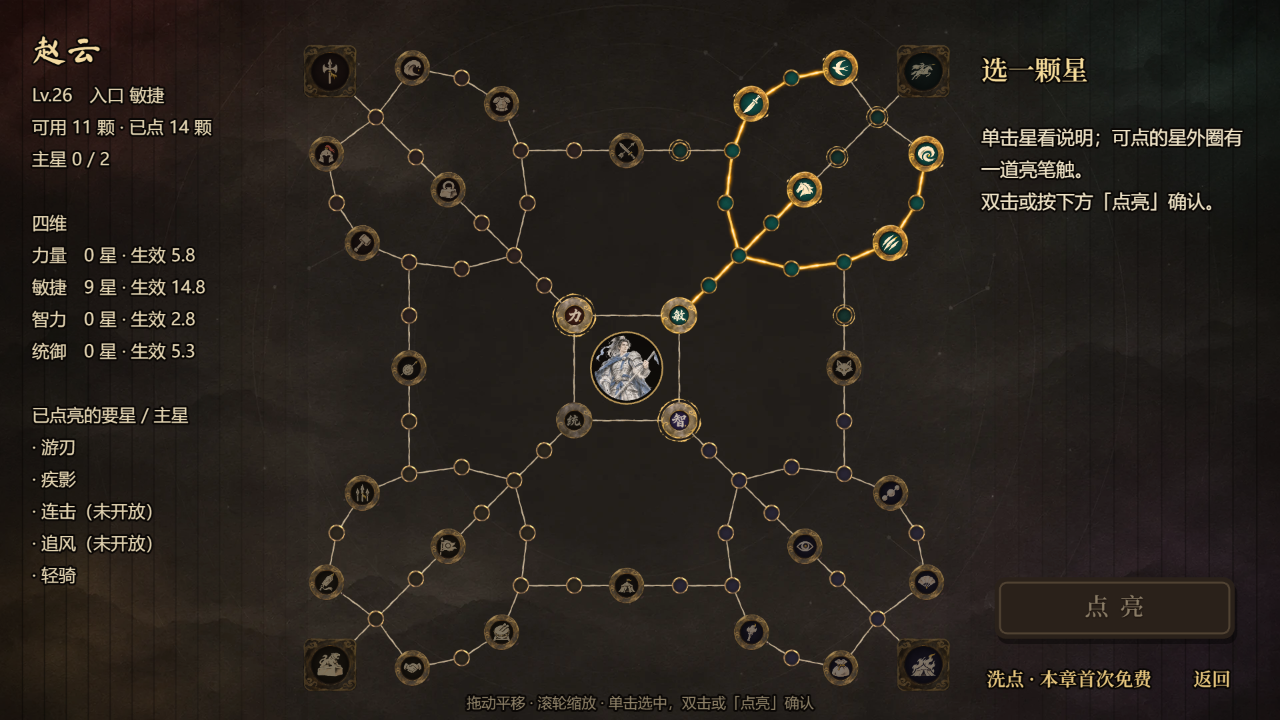
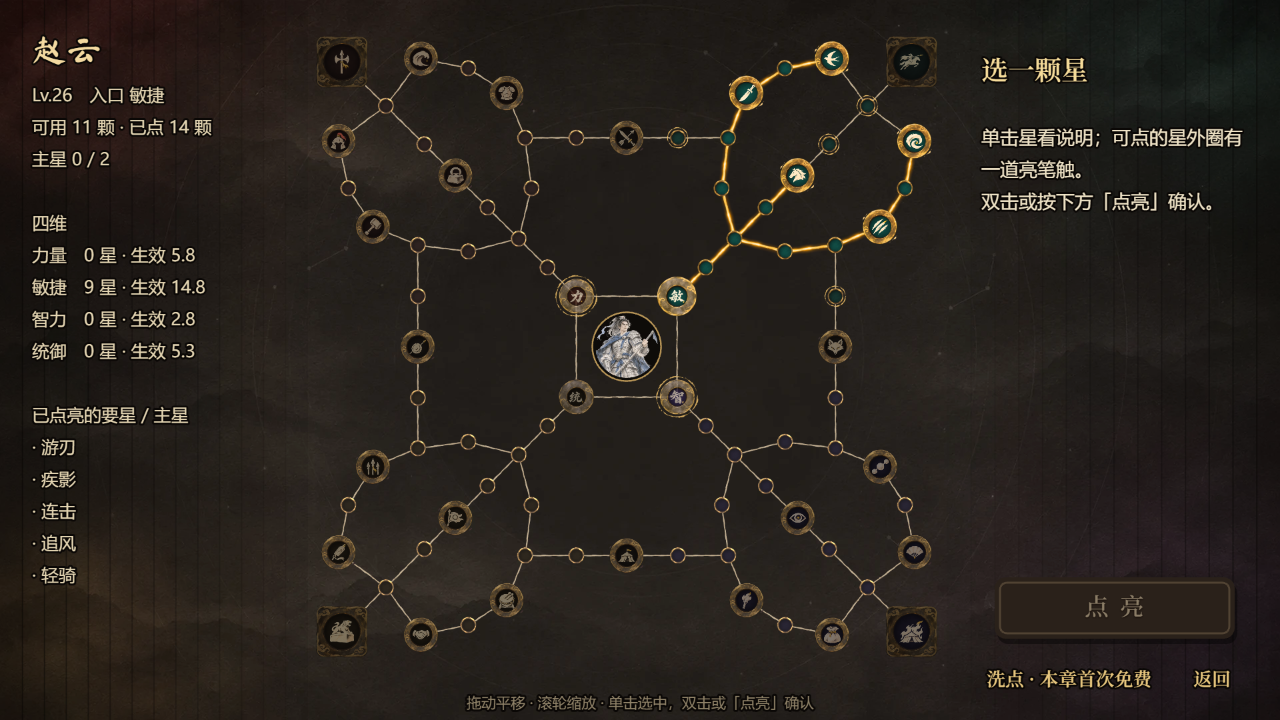
星图验收小修（统筹 49552686 验收四条）：①左右文字栏与底部操作提示范围内的星 / 线 / 中心头像按屏幕位置淡出到 0 并关掉点击，放大拖动后文字栏永远干净；默认缩放改为整张图放进可见区并让出淡出带（默认视图里没有半透明的星）。②悬停在当前选中的星上不弹悬停框；悬停框会伸进右栏时改放星的左侧。③已点亮的入口放大 12% 全亮，可点的入口压暗到 80%，两者一眼可分。④确认开关打开时没有可用的星也能按 C 打开星图（GameScene.canAttributes 已含 starMapOn）。另修：战斗暂停时 scene.time 不走，拖动结束后「拖动中」标记清不掉、悬停框不再出现——

Changed region(s): [[0.2188, 0.0306, 0.75, 0.9472], [0.0625, 0.7028, 0.125, 0.7639]]

diff --git a/src/ui/StarMapUI.ts b/src/ui/StarMapUI.ts
@@ -55,6 +55,8 @@ const BOUNDS = { x0: Math.min(...XS) - 40, x1: Math.max(...XS) + 40, y0: Math.mi
 /** 中心头像位：四个入口围出的方框中点。 */
 const CENTER = (() => { const g = STAR_NODES.filter(n => n.kind === 'gate'); return { x: g.reduce((s, n) => s + n.x, 0) / g.length, y: g.reduce((s, n) => s + n.y, 0) / g.length }; })();
 const ZOOM_MIN = .8, ZOOM_MAX = 1.6;
+/** 可见区边上的淡出带宽度（逻辑像素）。 */
+const FADE_E = 16;
 
 const setOf = (n: StarNode): string => (n.region === 'bridge' ? 'neutral' : n.region);
 const nodeKey = (n: StarNode, st: NodeState): string => `${P}${setOf(n)}_${n.kind}_${st}`;
@@ -74,7 +76,7 @@ function queueArt(scene: Phaser.Scene, hero: string): number {
 export class StarMapUI {
   readonly root: Phaser.GameObjects.Container;
   private map!: Phaser.GameObjects.Container;
-  private readonly nodes = new Map<string, { n: StarNode; base: Phaser.GameObjects.Image; icon?: Phaser.GameObjects.Image }>();
+  private readonly nodes = new Map<string, { n: StarNode; base: Phaser.GameObjects.Image; icon?: Phaser.GameObjects.Image; hit: Phaser.GameObjects.Zone; baseAlpha: number; iconAlpha: number; fade: number }>();
   private readonly lines: Array<{ a: string; b: string; ink: Phaser.GameObjects.TileSprite; gold: Phaser.GameObjects.TileSprite }> = [];
   private ring!: Phaser.GameObjects.Graphics;
   private left!: Phaser.GameObjects.Text;
@@ -121,9 +123,12 @@ export class StarMapUI {
     const bg = s.add.image(W / 2, H / 2, P + 'bg').setScrollFactor(0); bg.setScale(Math.max(W / bg.width, H / bg.height)); this.root.add(bg);
     // 图：容器里用设计稿坐标；默认缩放 = 正好一屏放下（左右各留出文字栏）
     this.map = s.add.container(0, 0).setScrollFactor(0).setName('star-map-layer'); this.root.add(this.map);
-    const sideL = IS_DESKTOP ? 210 : 0, sideR = IS_DESKTOP ? 230 : 0, availW = W - sideL - sideR, availH = H - 40;
+    const sideL = IS_DESKTOP ? 210 : 0, sideR = IS_DESKTOP ? 230 : 0;
+    this.clip = { l: sideL, r: W - sideR, t: 4, b: H - 24 };
+    // 默认缩放：整张图放进可见区并让出淡出带，默认视图里没有一颗星是半透明的
+    const availW = this.clip.r - this.clip.l - 2 * FADE_E, availH = this.clip.b - this.clip.t - 2 * FADE_E;
     this.fit = Math.min(availW / (BOUNDS.x1 - BOUNDS.x0), availH / (BOUNDS.y1 - BOUNDS.y0));
-    this.home = { x: sideL + availW / 2, y: H / 2 + 6 };
+    this.home = { x: (this.clip.l + this.clip.r) / 2, y: (this.clip.t + this.clip.b) / 2 };
     // 连线（先画，在节点下面）
     for (const [a, b] of STAR_EDGES) {
       const A = STAR_BY_ID.get(a)!, B = STAR_BY_ID.get(b)!, len = Math.hypot(B.x - A.x, B.y - A.y), ang = Math.atan2(B.y - A.y, B.x - A.x);
@@ -144,7 +149,7 @@ export class StarMapUI {
       hit.on('pointerout', () => { if (this.hover === n.id) { this.hover = null; this.renderTip(); } });
       hit.on('pointerup', (p: Phaser.Input.Pointer) => { if (this.drag?.moved) return; this.click(n.id, p); });
       this.map.add(hit);
-      this.nodes.set(n.id, { n, base, icon });
+      this.nodes.set(n.id, { n, base, icon, hit, baseAlpha: 1, iconAlpha: 1, fade: 1 });
     }
     this.ring = s.add.graphics().setScrollFactor(0); this.map.add(this.ring);
     this.applyView();
@@ -153,6 +158,25 @@ export class StarMapUI {
     this.render();
   }
   private home = { x: 0, y: 0 };
+  /** 星图可见区（左右文字栏与底部操作提示之外）；区外的星、线、头像淡出到 0 并关掉点击（2026-11-21 验收：放大 / 拖动后文字栏压在星上）。 */
+  private clip = { l: 0, r: 0, t: 0, b: 0 };
+  private portraitParts: Array<{ setAlpha: (a: number) => unknown }> = [];
+  private fadeAt(x: number, y: number): number {
+    const s = this.fit * this.zoom, sx = this.map.x + x * s, sy = this.map.y + y * s, c = this.clip, E = FADE_E;
+    return Phaser.Math.Clamp(Math.min((sx - c.l) / E, (c.r - sx) / E, (sy - c.t) / E, (c.b - sy) / E), 0, 1);
+  }
+  /** 按屏幕位置给每颗星 / 每条线 / 中心头像算淡出（平移、缩放、刷新后调用）。 */
+  private applyFade(): void {
+    if (!this.built) return;
+    for (const v of this.nodes.values()) {
+      const a = this.fadeAt(v.n.x, v.n.y); v.fade = a;
+      v.base.setAlpha(a * v.baseAlpha); v.icon?.setAlpha(a * v.iconAlpha);
+      if (v.hit.input) v.hit.input.enabled = a > .5;
+    }
+    for (const l of this.lines) { const A = STAR_BY_ID.get(l.a)!, B = STAR_BY_ID.get(l.b)!, a = Math.min(this.fadeAt(A.x, A.y), this.fadeAt(B.x, B.y)); l.ink.setAlpha(.72 * a); l.gold.setAlpha(a); }
+    const pa = this.fadeAt(CENTER.x, CENTER.y); for (const o of this.portraitParts) o.setAlpha(pa);
+    this.ring.setAlpha(this.selected ? this.nodes.get(this.selected)?.fade ?? 1 : 1);
+  }
   /** 底座图的显示尺寸系数（图是 2×，显示按设计稿 1×；入口 / 要星图 128 宽包含外圈笔触，按设计稿 44 直径换算）。 */
   private baseScale(kind: StarNode['kind']): number { const img2x = { gate: 128, small: 58, notable: 128, keystone: 186 }[kind], disp2x = DISP[kind] * 2; return img2x / disp2x; }
 
@@ -165,10 +189,10 @@ export class StarMapUI {
       const w = src.width * .7, sx = (src.width - w) / 2, sy = src.height * .06; g.drawImage(src, sx, sy, w, w, 0, 0, 160, 160);
       s.textures.addCanvas(faceKey, c);
     }
-    const ring = s.add.graphics().setScrollFactor(0); ring.fillStyle(0x0b0806, .85).fillCircle(CENTER.x, CENTER.y, R + 3).lineStyle(2, 0xc9a35e, .9).strokeCircle(CENTER.x, CENTER.y, R + 3); this.map.add(ring);
+    const ring = s.add.graphics().setScrollFactor(0); this.portraitParts.push(ring); ring.fillStyle(0x0b0806, .85).fillCircle(CENTER.x, CENTER.y, R + 3).lineStyle(2, 0xc9a35e, .9).strokeCircle(CENTER.x, CENTER.y, R + 3); this.map.add(ring);
     const c = CHARACTERS.find(x => x.id === st.hero);
-    if (s.textures.exists(faceKey)) this.map.add(s.add.image(CENTER.x, CENTER.y, faceKey).setDisplaySize(R * 2, R * 2).setScrollFactor(0).setName('star-map-face'));
-    else if (c && s.textures.exists(c.portrait)) { const im = s.add.image(CENTER.x, CENTER.y, c.portrait).setScrollFactor(0).setName('star-map-face'); im.setScale(Math.min(R * 1.6 / im.width, R * 1.6 / im.height)); this.map.add(im); }
+    if (s.textures.exists(faceKey)) { const im = s.add.image(CENTER.x, CENTER.y, faceKey).setDisplaySize(R * 2, R * 2).setScrollFactor(0).setName('star-map-face'); this.map.add(im); this.portraitParts.push(im); }
+    else if (c && s.textures.exists(c.portrait)) { const im = s.add.image(CENTER.x, CENTER.y, c.portrait).setScrollFactor(0).setName('star-map-face'); im.setScale(Math.min(R * 1.6 / im.width, R * 1.6 / im.height)); this.map.add(im); this.portraitParts.push(im); }
   }
 
   private buildText(): void {
@@ -208,15 +232,15 @@ export class StarMapUI {
     const p = this.scene.input.activePointer, before = this.zoom, next = Phaser.Math.Clamp(this.zoom * (dy > 0 ? 1 / 1.12 : 1.12), ZOOM_MIN, ZOOM_MAX);
     if (next === before) return;
     // 以鼠标为中心缩放
-    const k = next / before; this.map.x = p.x - (p.x - this.map.x) * k; this.map.y = p.y - (p.y - this.map.y) * k; this.zoom = next; this.map.setScale(this.fit * this.zoom); this.clampPan(); this.renderTip();
+    const k = next / before; this.map.x = p.x - (p.x - this.map.x) * k; this.map.y = p.y - (p.y - this.map.y) * k; this.zoom = next; this.map.setScale(this.fit * this.zoom); this.clampPan(); this.applyFade(); this.renderTip();
   };
   private readonly onDown = (p: Phaser.Input.Pointer): void => { if (!this.visible()) return; this.drag = { x: this.map.x, y: this.map.y, mx: p.x, my: p.y, moved: false }; };
   private readonly onMove = (p: Phaser.Input.Pointer): void => {
     const d = this.drag; if (!d || !p.isDown || !this.visible()) return;
     if (!d.moved && Math.hypot(p.x - d.mx, p.y - d.my) < 6) return;
-    d.moved = true; this.map.setPosition(d.x + p.x - d.mx, d.y + p.y - d.my); this.clampPan(); this.renderTip();
+    d.moved = true; this.map.setPosition(d.x + p.x - d.mx, d.y + p.y - d.my); this.clampPan(); this.applyFade(); this.renderTip();
   };
-  private readonly onUp = (): void => { const d = this.drag; if (d?.moved) this.scene.time.delayedCall(0, () => { if (this.drag === d) this.drag = null; }); else this.drag = null; };
+  private readonly onUp = (): void => { const d = this.drag; if (d?.moved) setTimeout(() => { if (this.drag === d) this.drag = null; }, 0); /* 战斗内暂停时 scene.time 不走，不能用 delayedCall */ else this.drag = null; };
   private bind(): void { const i = this.scene.input; i.on('wheel', this.onWheel); i.on('pointerdown', this.onDown); i.on('pointermove', this.onMove); i.on('pointerup', this.onUp); }
   private unbind(): void { const i = this.scene.input; i?.off('wheel', this.onWheel); i?.off('pointerdown', this.onDown); i?.off('pointermove', this.onMove); i?.off('pointerup', this.onUp); }
   private visible(): boolean { let o: Phaser.GameObjects.Container | null = this.root; while (o) { if (!o.visible || !o.active) return false; o = o.parentContainer; } return this.built; }
@@ -265,10 +289,14 @@ export class StarMapUI {
   render(): void {
     if (!this.built || !this.root.active) return;
     const st = this.o.state(), lit = litSet(st.lit, st.gate);
-    for (const { n, base, icon } of this.nodes.values()) {
-      const s = this.stateOf(n, lit, st); base.setTexture(nodeKey(n, s)); icon?.setAlpha(ICON_ALPHA[s]);
+    for (const v of this.nodes.values()) {
+      const n = v.n, s = this.stateOf(n, lit, st), k = this.baseScale(n.kind) * DISP[n.kind];
+      // 入口：已点亮的放大 12%、全亮；可点的略压暗——两者在 44px 下原来几乎一样（2026-11-21 验收第 3 条）
+      const gk = n.kind === 'gate' ? (s === 'on' ? 1.12 : 1) : 1;
+      v.base.setTexture(nodeKey(n, s)).setDisplaySize(k * gk, k * gk); v.baseAlpha = n.kind === 'gate' && s === 'ready' ? .8 : 1; v.iconAlpha = ICON_ALPHA[s];
     }
     for (const l of this.lines) { const on = lit.has(l.a) && lit.has(l.b); l.gold.setVisible(on); l.ink.setVisible(!on); }
+    this.applyFade();
     // 选中圈
     this.ring.clear();
     const sel = this.selected ? STAR_BY_ID.get(this.selected) : undefined;
@@ -306,10 +334,12 @@ export class StarMapUI {
   private renderTip(): void {
     if (!this.built) return;
     const id = this.hover, n = id ? STAR_BY_ID.get(id) : undefined;
-    if (!n || this.drag?.moved) { this.tip.setVisible(false); return; }
+    // 悬停的就是选中的那颗：右栏已经写着，不再弹框（2026-11-21 验收第 2 条：悬停框盖住右栏「已点亮」）
+    if (!n || this.drag?.moved || id === this.selected || (this.nodes.get(n.id)?.fade ?? 1) < .5) { this.tip.setVisible(false); return; }
     const st = this.o.state(), s = this.fit * this.zoom, x = this.map.x + n.x * s, y = this.map.y + n.y * s;
     this.tip.setText(`${n.name}${n.todo ? '（效果尚未开放）' : ''}\n${n.id === st.gate ? '你的入口' : n.desc}`).setVisible(true);
-    const tx = Phaser.Math.Clamp(x + 16, 8, this.W - this.tip.width - 8), ty = Phaser.Math.Clamp(y - this.tip.height - 12, 8, this.H - this.tip.height - 8);
+    // 放在星的右侧；会伸进右栏时改放左侧（左侧也放不下就贴在可见区内）
+    const c = this.clip, right = x + 16 + this.tip.width <= c.r - 4, tx = right ? x + 16 : Math.max(c.l + 4, x - 16 - this.tip.width), ty = Phaser.Math.Clamp(y - this.tip.height - 12, 8, c.b - this.tip.height - 4);
     this.tip.setPosition(tx, ty);
   }
 }
